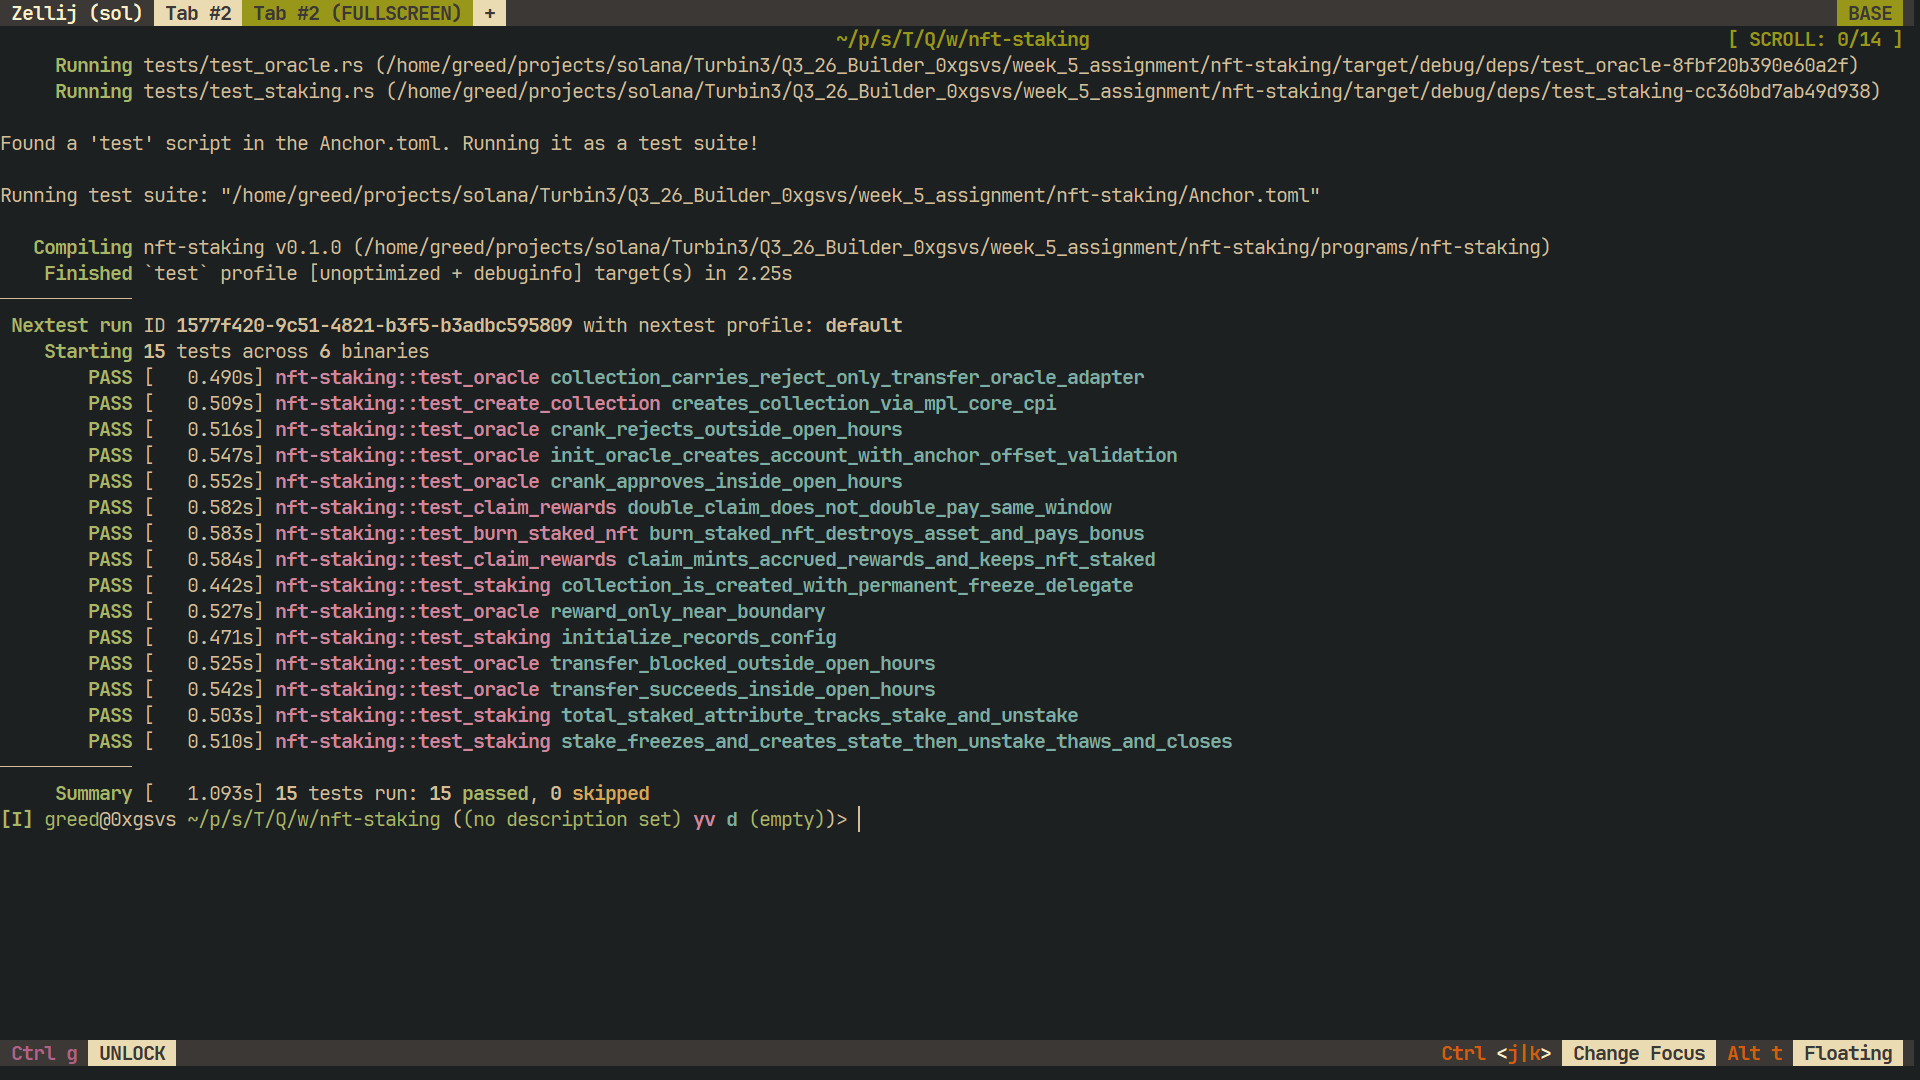
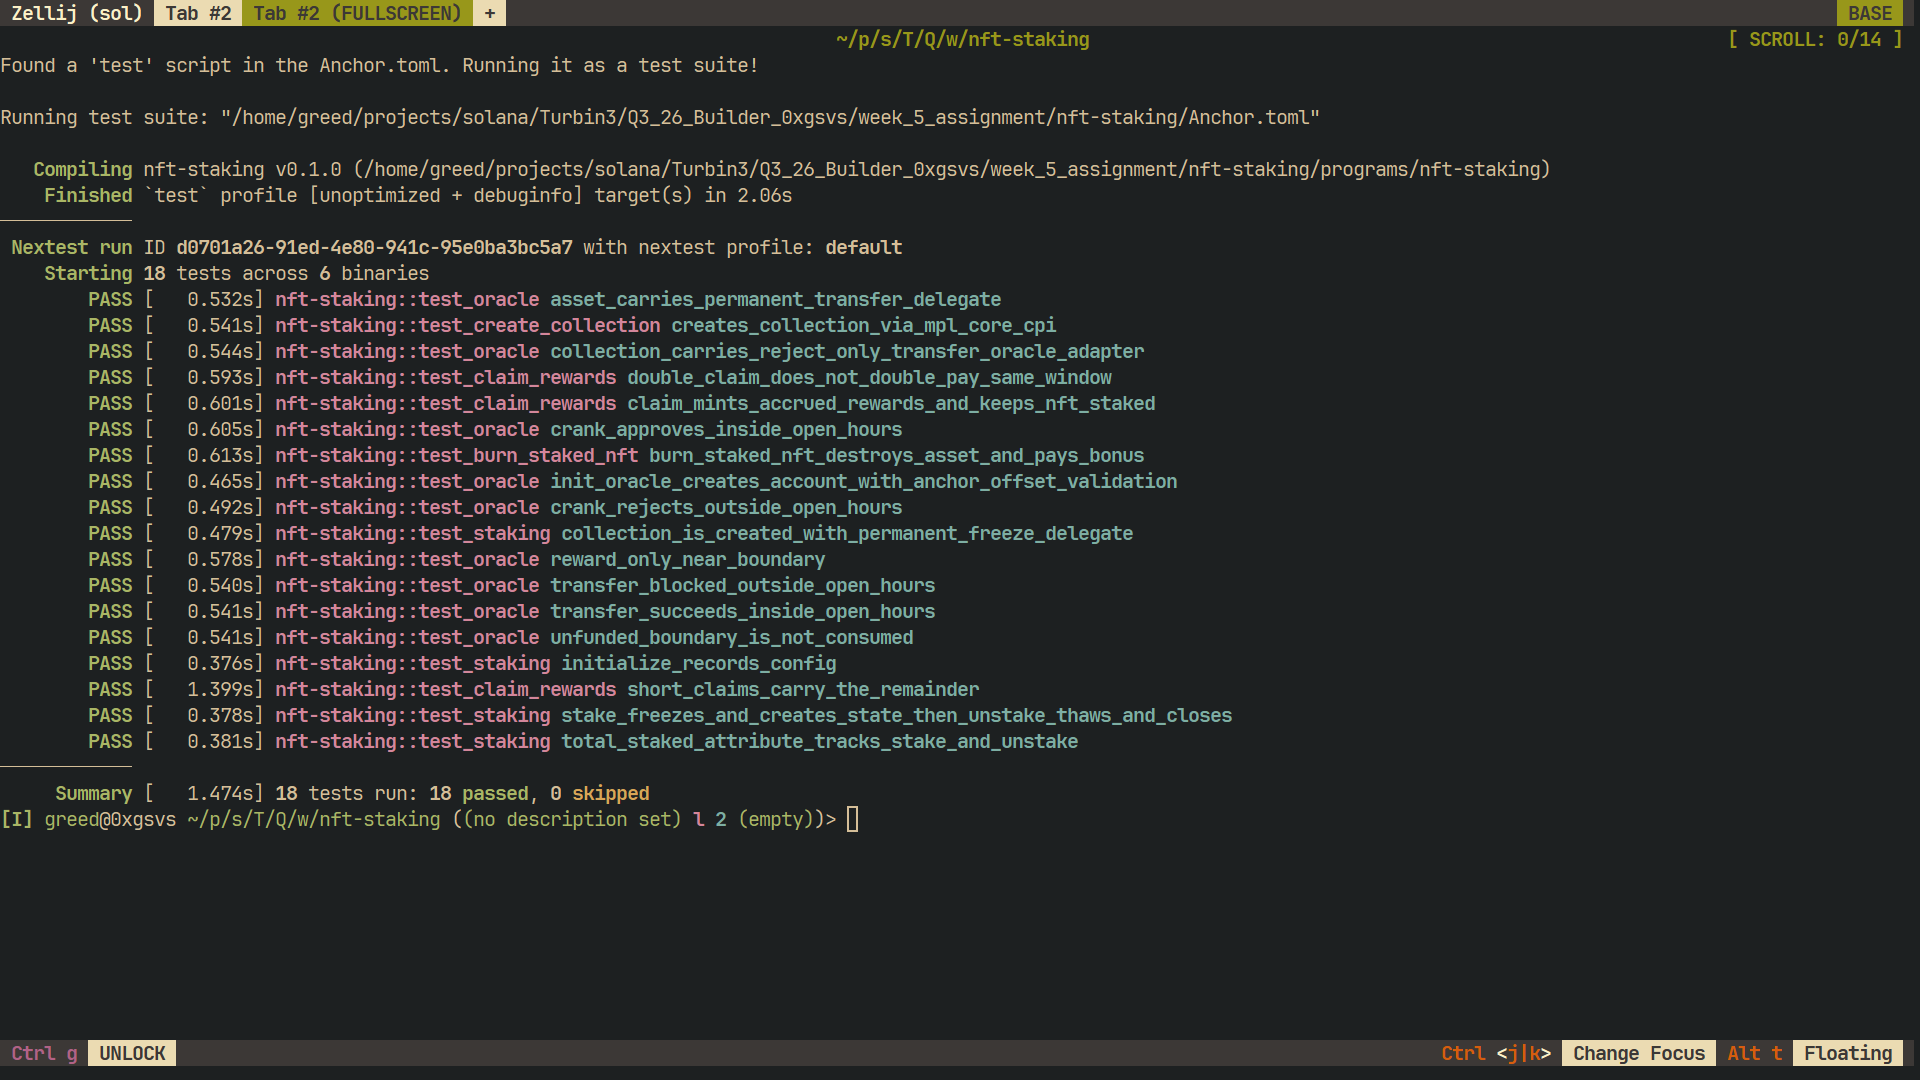
docs(nft-staking): refresh README and test screenshot
Update the test count to 18 and describe the review-driven behavior: the
wrapper-enforced transfer window with a permanent transfer delegate, reward
carry across short claims, and once-per-boundary crank payouts. Replace the
screenshot with the current run.

diff --git a/week_5_assignment/nft-staking/README.md b/week_5_assignment/nft-staking/README.md
@@ -18,7 +18,9 @@ Built with Anchor 1.2 on top of mpl-core 0.12.
   number of staked assets.
 - **Oracle transfer gate** — an mpl-core Oracle external plugin adapter rejects
   transfers outside a UTC open window. A permissionless crank updates it and is
-  rewarded near the open/close boundaries.
+  rewarded once per open/close boundary. Assets carry a permanent transfer
+  delegate, so `transfer_asset` is the only transfer path and enforces the live
+  window itself.
 
 ## Layout
 
@@ -49,7 +51,7 @@ programs/nft-staking/
 | `unstake` | Thaw the asset and close the stake account. |
 | `init_oracle` | Create the per-collection oracle account and reward vault. |
 | `update_oracle` | Permissionless crank that opens or closes the transfer window. |
-| `transfer_asset` | Transfer an asset through mpl-core, gated by the oracle. |
+| `transfer_asset` | The only transfer path: enforces the live window, then transfers through mpl-core. |
 
 ## Reward math
 
@@ -57,21 +59,29 @@ programs/nft-staking/
 `reward_bps` parts per 10,000 of `REWARD_UNIT` (1 mint base unit, 6 decimals).
 
 ```
-amount = elapsed_seconds * reward_bps * REWARD_UNIT
-         / SECONDS_PER_PERIOD
-         / BPS_DENOMINATOR
+numerator = elapsed_seconds * reward_bps * REWARD_UNIT + reward_carry
+denominator = SECONDS_PER_PERIOD * BPS_DENOMINATOR
+amount = numerator / denominator
+reward_carry = numerator % denominator
 ```
 
-`reward_bps` is bounded at 10,000 (100%) per period in `initialize`.
+`reward_bps` is bounded at 10,000 (100%) per period in `initialize`. The
+remainder is carried in `StakeState.reward_carry`, so many short claims mint the
+same total as one claim over the same span.
 
 ## Oracle transfer window
 
 The oracle gates `Transfer`. Inside `[OPEN_HOUR, CLOSE_HOUR)` UTC the asset
-transfers; outside it mpl-core rejects the lifecycle. `init_oracle` starts the
-window closed so nothing slips through before the first crank. The crank is
-permissionless and pays `ORACLE_REWARD` when it lands within
-`BOUNDARY_TOLERANCE` seconds of either boundary, keeping `VAULT_MIN_LAMPORTS`
-in the vault.
+transfers; outside it `transfer_asset` refuses with `TransferWindowClosed`. The
+stored oracle result is refreshed from the live window before the CPI, and
+assets carry a permanent transfer delegate so a direct mpl-core transfer by the
+owner is impossible — the wrapper is the only path and enforces the window
+itself.
+
+`init_oracle` starts the window closed so nothing slips through before the first
+crank. The crank is permissionless and pays `ORACLE_REWARD` once per open/close
+boundary, only when the caller lands within `BOUNDARY_TOLERANCE` seconds of it
+and the vault can pay, keeping `VAULT_MIN_LAMPORTS` in the vault.
 
 ## Tests
 
@@ -83,8 +93,9 @@ cargo build-sbf          # build the program .so consumed by the tests
 cargo nextest run        # or: cargo test
 ```
 
-![Test suite passing: 15 tests, 0 failed](pics/Q3_26_Builder_0xgsvs_week_5_nft_staking.png)
+![Test suite passing: 18 tests, 0 failed](pics/Q3_26_Builder_0xgsvs_week_5_nft_staking.png)
 
-15 tests across 6 binaries cover collection creation, the full stake/unstake
-lifecycle, reward accrual, burn-to-earn, the collection counter, and the oracle
-transfer gate (open, closed, and boundary reward).
+18 tests across the test binaries cover collection creation, the full
+stake/unstake lifecycle with freeze/thaw checks, reward accrual including carry
+across short claims, burn-to-earn, the collection counter, and the oracle
+transfer gate (open, closed, boundary reward, and unfunded boundaries).
